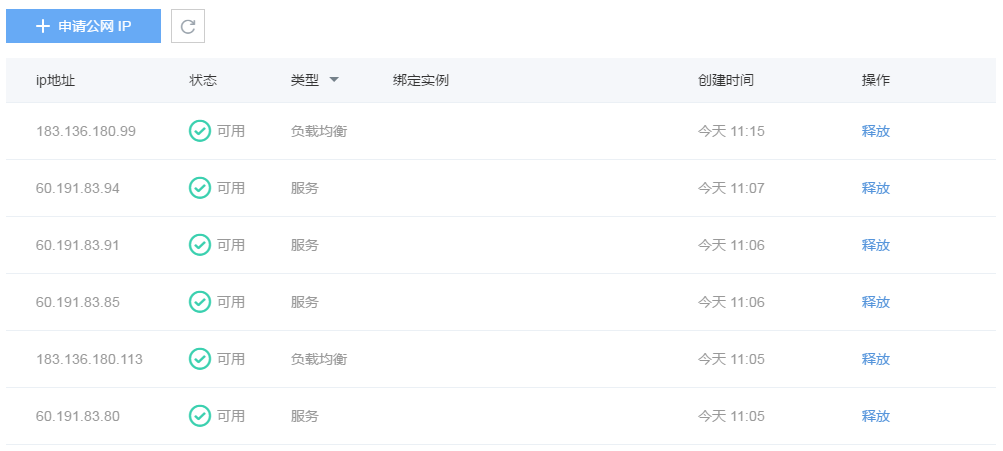
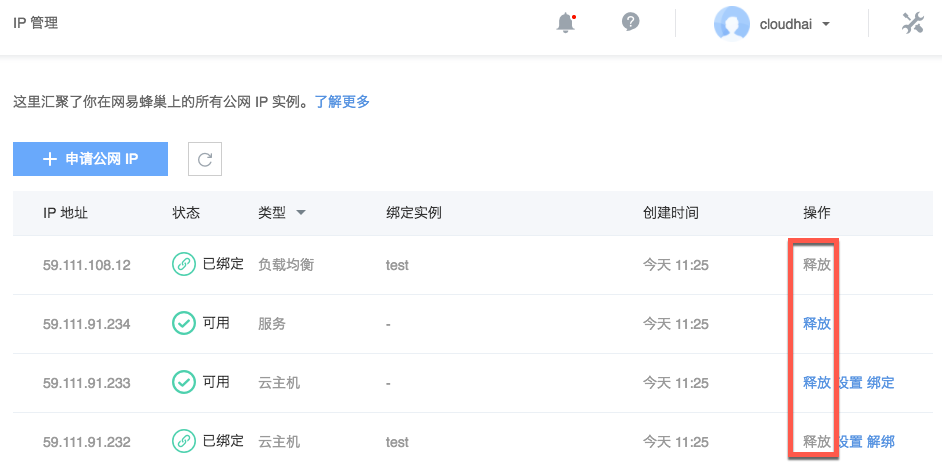
Featrue:IP管理重构支持云主机

diff --git a/平台服务/IP 管理/使用指南/IP 管理使用指南.md b/平台服务/IP 管理/使用指南/IP 管理使用指南.md
@@ -2,40 +2,14 @@
 
 ## 申请公网 IP
 
-点击左侧的导航菜单「IP 管理」，进入 IP 管理列表页面，点击「申请公网 IP」按钮，进入申请公网 IP 页面，如下图所示：
+1. 登录 [控制台](https://c.163.com/dashboard#/m/net/)，定位「**IP 管理**」标签；
+2. 在 IP 管理列表左上角，点击「**申请公网 IP**」按钮：
 
 ![](../image/IP管理使用指南-申请公网IP.png)
 
-* 也可以在创建有状态服务或者负载均衡时申请新 IP
-* 服务 IP 用于绑定服务，负载均衡 IP 用于绑定负载均衡
-* 在创建有状态服务或负载均衡页面均可以使用申请的对应服务或者负载均衡的 IP
-* 费用 0.02 元/小时/IP
-* 如需增加配额请提交工单联系我们
 
-## 释放公网 IP
-
-在IP 管理列表页面，找到需要释放的公网 IP，点击右侧的「释放」按钮即可释放你的公网 IP（已绑定服务或负载均衡的 IP 须先删除对应实例）
-
-![](../image/IP管理使用指南-释放公网IP.png)
-
-点击「释放」按钮后，将弹出提示，确认释放的 IP 及消费信息：
-
-![](../image/IP管理使用指南-释放公网IP提示.png)
-
-<span>Attention:</span><div class="alertContent">释放的 IP 无法找回。</div>
-
-## 绑定服务
-
-<span>Note:</span><div class="alertContent">目前支持在创建服务时绑定申请的公网 IP</div>
-
-![](../image/IP管理使用指南-绑定服务.png)
-
-详见：[创建有状态服务](http://support.c.163.com/md.html#!容器服务/服务管理/使用指南/创建有状态服务.md)
-
-## 绑定负载均衡
-
-<span>Note:</span><div class="alertContent">目前支持在创建负载均衡时绑定申请的公网 IP</div>
-
-![](../image/IP管理使用指南-绑定负载均衡.png)
-
-详见：[创建负载均衡](http://support.c.163.com/md.html#!容器服务/负载均衡/使用指南/创建负载均衡.md)
+<span>Note:</span>
+也可以在创建有状态服务/云主机/负载均衡时申请新 IP（随机分配）；
+服务 IP 用于绑定服务，云主机 IP 用于绑定云主机，负载均衡 IP 用于绑定负载均衡；
+申请成功即开始计费，无论是否绑定服务/云主机/负载均衡；
+如需增加配额请提交工单联系我们。

diff --git a/平台服务/IP 管理/navigation.md b/平台服务/IP 管理/navigation.md
@@ -7,6 +7,17 @@
 [使用指南]()
 
 * [使用指南](平台服务/IP 管理/使用指南/IP 管理使用指南.md)
+* [申请公网 IP](平台服务/IP 管理/使用指南/申请公网IP.md)
+* [绑定公网 IP]()
+
+	* [绑定服务](平台服务/IP 管理/使用指南/绑定公网IP/公网IP绑定服务.md)
+	* [绑定负载均衡](平台服务/IP 管理/使用指南/绑定公网IP/公网IP绑定负载均衡.md)
+	* [绑定云主机](平台服务/IP 管理/使用指南/绑定公网IP/公网IP绑定云主机.md)
+* [管理公网IP]()
+
+	* [解绑公网 IP](平台服务/IP 管理/使用指南/管理公网IP/解绑公网IP.md)
+	* [设置公网 IP](平台服务/IP 管理/使用指南/管理公网IP/设置公网IP.md)
+	* [释放公网 IP](平台服务/IP 管理/使用指南/管理公网IP/释放公网IP.md)
 
 [API 手册]()
 
@@ -20,3 +31,7 @@
 
 
 [价格与计费](平台服务/IP 管理/IP管理价格与计费.md)
+
+[常见问题]()
+
+* [常见问题](平台服务/IP 管理/常见问题/IP管理常见问题.md)

diff --git a/平台服务/IP 管理/使用指南/管理公网IP/解绑公网IP.md b/平台服务/IP 管理/使用指南/管理公网IP/解绑公网IP.md
@@ -1,0 +1,18 @@
+# 解绑公网 IP
+
+<span>Note:</span>
+服务/负载均衡删除实例后即解绑，不支持在IP 管理解绑；
+云主机删除实例后即解绑，也支持在IP 管理解绑；
+解绑后 IP 即与对应实例解除绑定，但不会释放该公网 IP，只有释放后才会停止计费。
+
+## 操作步骤
+
+1. 登录 [控制台](https://c.163.com/dashboard#/m/net/)，定位「**IP 管理**」标签；
+2. 在 IP 管理列表，定位到需要解绑的 IP：
+3. 在右侧操作栏，点击「**解绑**」按钮即可：
+
+![](../../image/IP管理使用指南-解绑公网IP.png)
+
+
+<span>Note:</span><div class="alertContent">云主机端操作详见：[云主机解绑公网 IP](http://support.c.163.com/md.html#!容器服务/云主机/使用指南/linux主机解绑公网IP.md) 。</div>
+

diff --git a/平台服务/IP 管理/使用指南/管理公网IP/设置公网IP.md b/平台服务/IP 管理/使用指南/管理公网IP/设置公网IP.md
@@ -1,0 +1,16 @@
+# 设置公网 IP
+
+<span>Note:</span><div class="alertContent">目前支持在 IP 管理调整云主机的公网设置</div>
+
+## 操作步骤
+
+1. 登录 [控制台](https://c.163.com/dashboard#/m/net/)，定位「**IP 管理**」标签；
+2. 在 IP 管理列表，定位到需要设置的云主机 IP；
+3. 在右侧操作栏，点击「**设置**」按钮：
+![](../../image/IP管理使用指南-设置公网IP.png)
+4. 在弹出的设置公网 IP 页面，调整相关设置：
+![](../../image/IP管理使用指南-设置公网IP明细.png)
+
+<span>Note:</span>
+支持设置在按流量计费时的带宽上限自定义；
+未绑定云主机的公网 IP 若选择按带宽计费，将增加带宽费用。

diff --git a/平台服务/IP 管理/使用指南/申请公网IP.md b/平台服务/IP 管理/使用指南/申请公网IP.md
@@ -1,0 +1,14 @@
+# 申请公网 IP
+
+1. 登录 [控制台](https://c.163.com/dashboard#/m/net/)，定位「**IP 管理**」标签；
+2. 在 IP 管理列表左上角，点击「**申请公网 IP**」按钮：
+
+![](../image/IP管理使用指南-申请公网IP.png)
+
+
+<span>Note:</span>
+也可以在创建有状态服务/云主机/负载均衡时申请新 IP（随机分配）；
+服务 IP 用于绑定服务，云主机 IP 用于绑定云主机，负载均衡 IP 用于绑定负载均衡；
+申请成功即开始计费，无论是否绑定服务/云主机/负载均衡；
+申请的云主机 IP，默认按流量计费；
+如需增加配额请提交工单联系我们。

diff --git a/平台服务/IP 管理/使用指南/绑定公网IP/公网IP绑定云主机.md b/平台服务/IP 管理/使用指南/绑定公网IP/公网IP绑定云主机.md
@@ -1,0 +1,12 @@
+# 绑定云主机
+
+1. 登录 [控制台](https://c.163.com/dashboard#/m/net/)，定位「**IP 管理**」标签；
+2. 在 IP 管理列表，定位到需要班定云主机的 IP：
+3. 在右侧操作栏，点击「**绑定**」按钮；
+4. 在弹出的菜单中，选择需要绑定的云主机名称即可：
+
+![](../../image/IP管理使用指南-绑定云主机.gif)
+
+
+<span>Note:</span><div class="alertContent">云主机端操作详见：[云主机绑定公网 IP](http://support.c.163.com/md.html#!容器服务/云主机/使用指南/linux主机绑定公网IP.md) 。</div>
+

diff --git a/平台服务/IP 管理/使用指南/管理公网IP/释放公网IP.md b/平台服务/IP 管理/使用指南/管理公网IP/释放公网IP.md
@@ -1,0 +1,15 @@
+# 释放公网 IP
+
+<span>Attention:</span>
+释放的 IP 无法找回；
+已绑定服务或负载均衡的 IP 须先删除对应实例；
+已绑定公网 IP 的服务或负载均衡，在删除时也支持勾选同时释放该 IP。
+
+## 操作步骤
+
+1. 登录 [控制台](https://c.163.com/dashboard#/m/net/)，定位「**IP 管理**」标签；
+2. 在 IP 管理列表，定位到需要释放的 IP；
+3. 在右侧操作栏，点击「**释放**」按钮即可：
+
+![](../../image/IP管理使用指南-释放公网IP.png)
+

diff --git a/平台服务/IP 管理/使用指南/绑定公网IP/公网IP绑定负载均衡.md b/平台服务/IP 管理/使用指南/绑定公网IP/公网IP绑定负载均衡.md
@@ -1,0 +1,7 @@
+# 绑定负载均衡
+
+<span>Note:</span><div class="alertContent">目前支持在创建负载均衡时绑定申请的公网 IP</div>
+
+![](../../image/IP管理使用指南-绑定负载均衡.png)
+
+详见：[创建负载均衡](http://support.c.163.com/md.html#!容器服务/负载均衡/使用指南/创建负载均衡.md)

diff --git a/平台服务/IP 管理/使用指南/绑定公网IP/公网IP绑定服务.md b/平台服务/IP 管理/使用指南/绑定公网IP/公网IP绑定服务.md
@@ -1,0 +1,7 @@
+# 绑定服务
+
+<span>Note:</span><div class="alertContent">目前支持在创建服务时绑定申请的公网 IP</div>
+
+![](../../image/IP管理使用指南-绑定服务.png)
+
+详见：[创建有状态服务](http://support.c.163.com/md.html#!容器服务/服务管理/使用指南/创建有状态服务.md)

diff --git a/平台服务/IP 管理/常见问题/IP管理常见问题.md b/平台服务/IP 管理/常见问题/IP管理常见问题.md
@@ -1,0 +1,4 @@
+# 常见问题
+
+#### Q：为什么已经解绑了公网 IP 还在计费？
+A：解绑后 IP 即与对应实例解除绑定，但不会释放该公网 IP，只有释放后才会停止计费。
